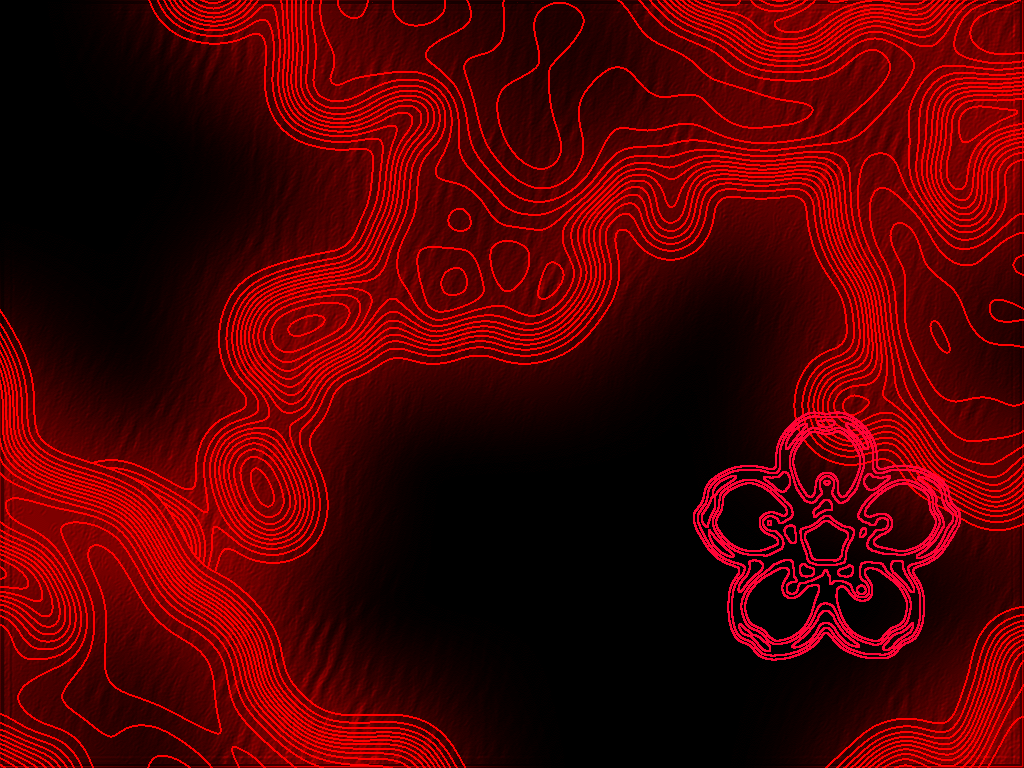
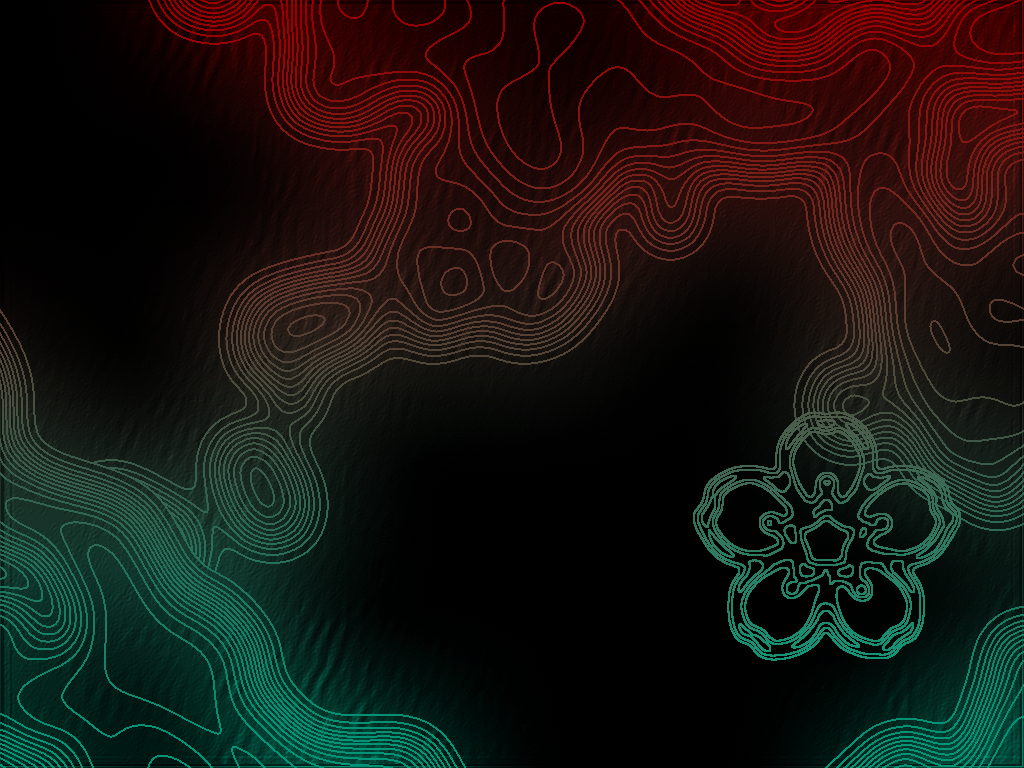
Style changes

diff --git a/code/Values.js b/code/Values.js
@@ -124,21 +124,23 @@ var FONT = {
         font: "Unispace Rg",
         size: ZOOM * 7,
         weight: "Bold",
-        color: "#c00",
+        color: "#0fc",
         strokeWidth: 4,
-        strokeColor: ZOOM > 3 ? "#fcc" : "transparent",
+        strokeColor: ZOOM > 3 ? "#066" : "transparent",
         menu: {
             size: ZOOM * 15,
-            strokeWidth: 10
+            color: "#fff",
+            strokeWidth: 10,
+            strokeColor: "#600"
         }
     },
     menu: {
         font: "Unispace Rg",
         size: ZOOM * 10,
         style: "Italic",
-        color: "#c00",
+        color: "#c99",
         strokeWidth: 4,
-        strokeColor: "#fcc",
+        strokeColor: "#633",
         selected: {
             weight: "Bold",
             color: "#fff",
